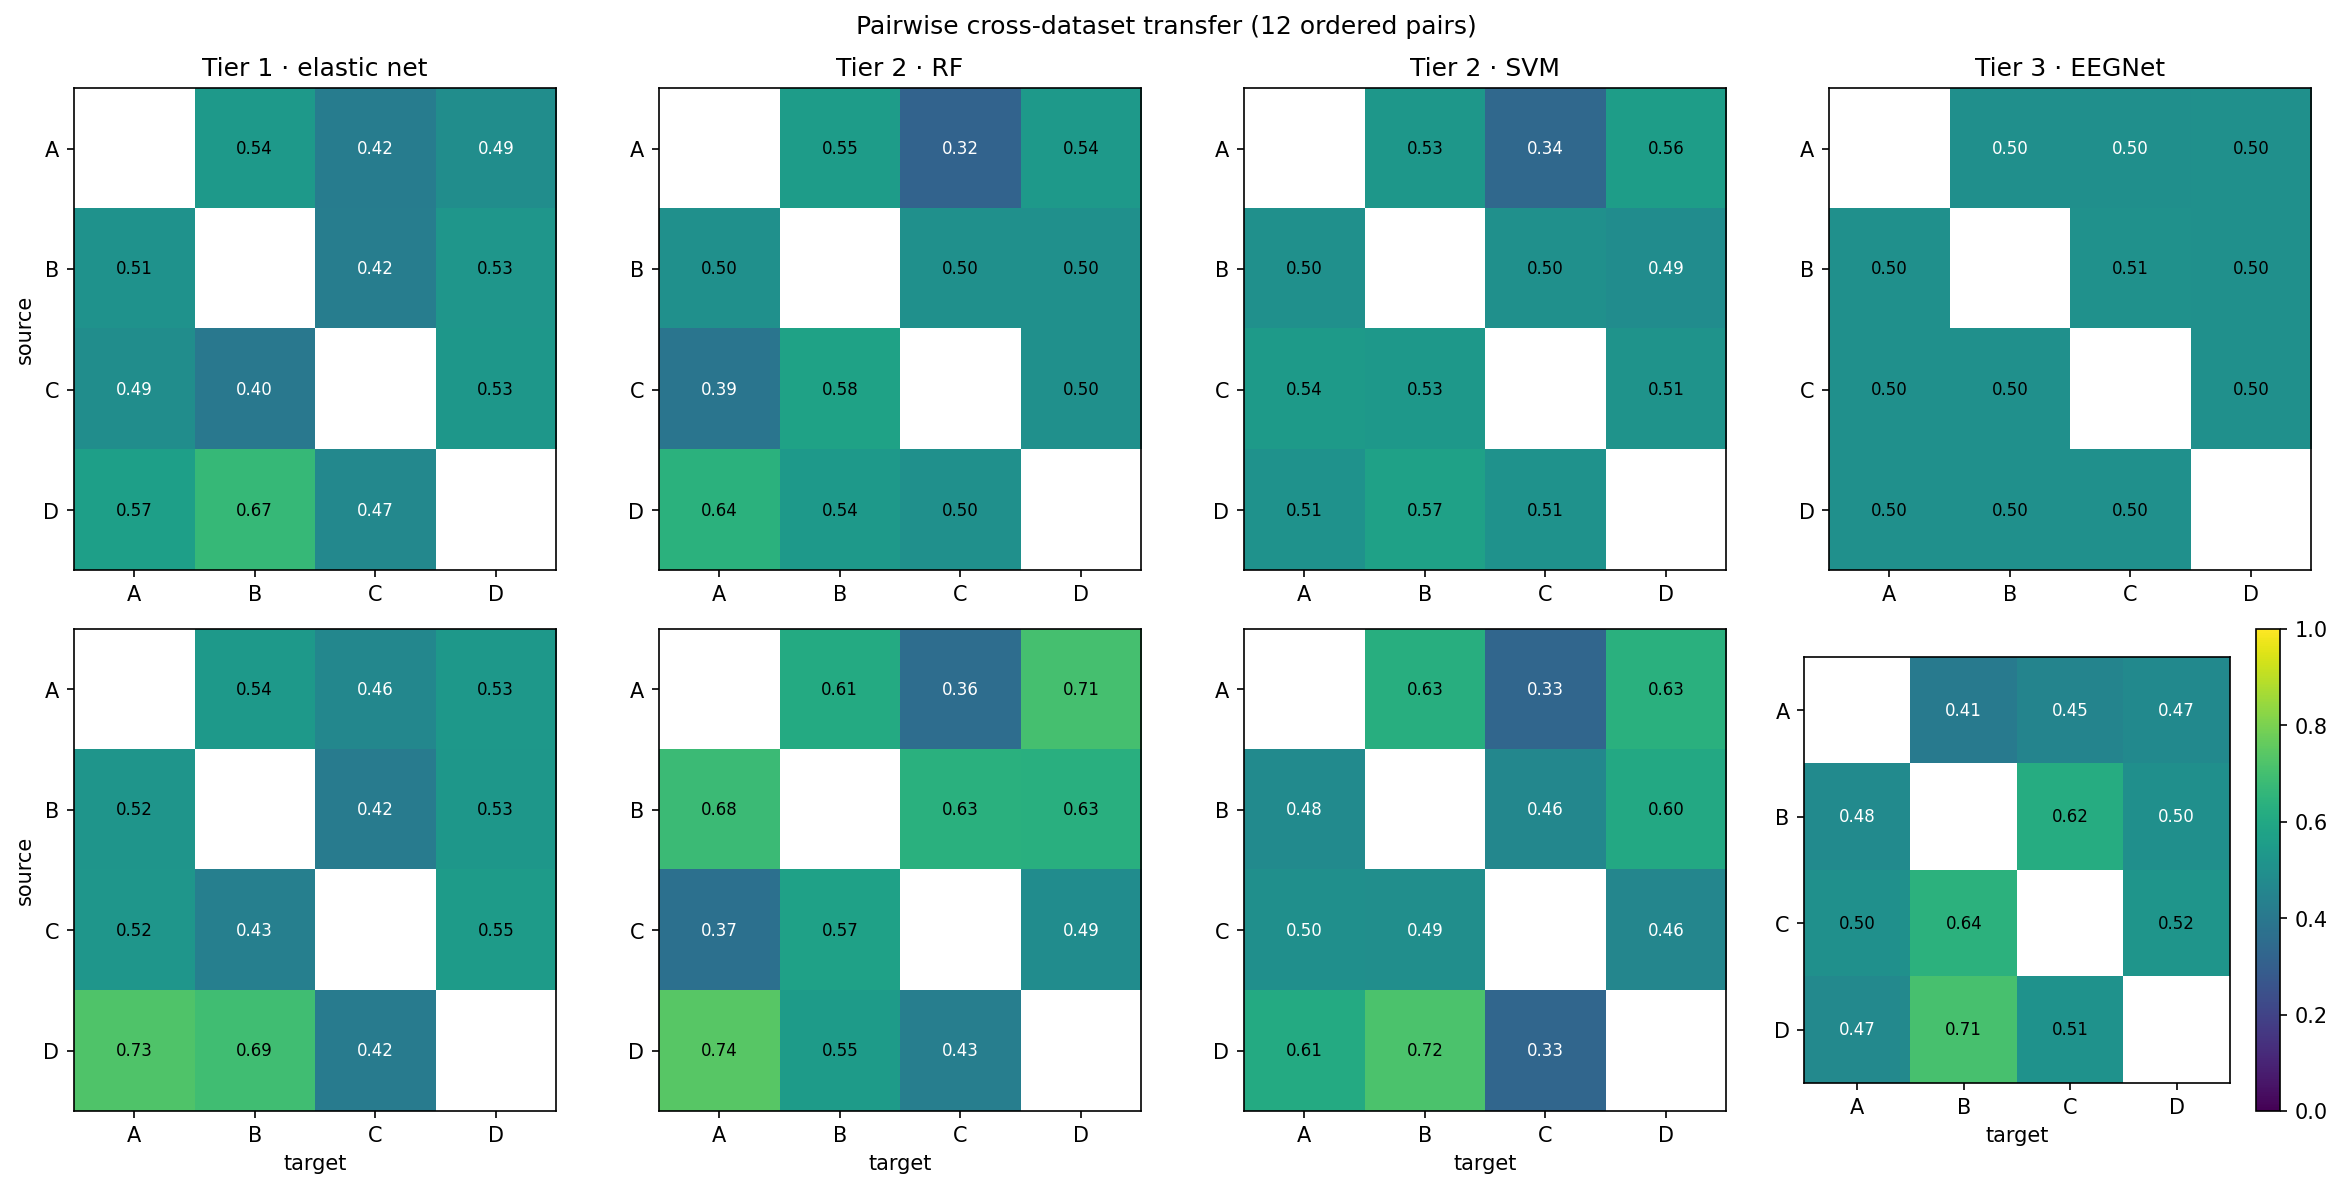
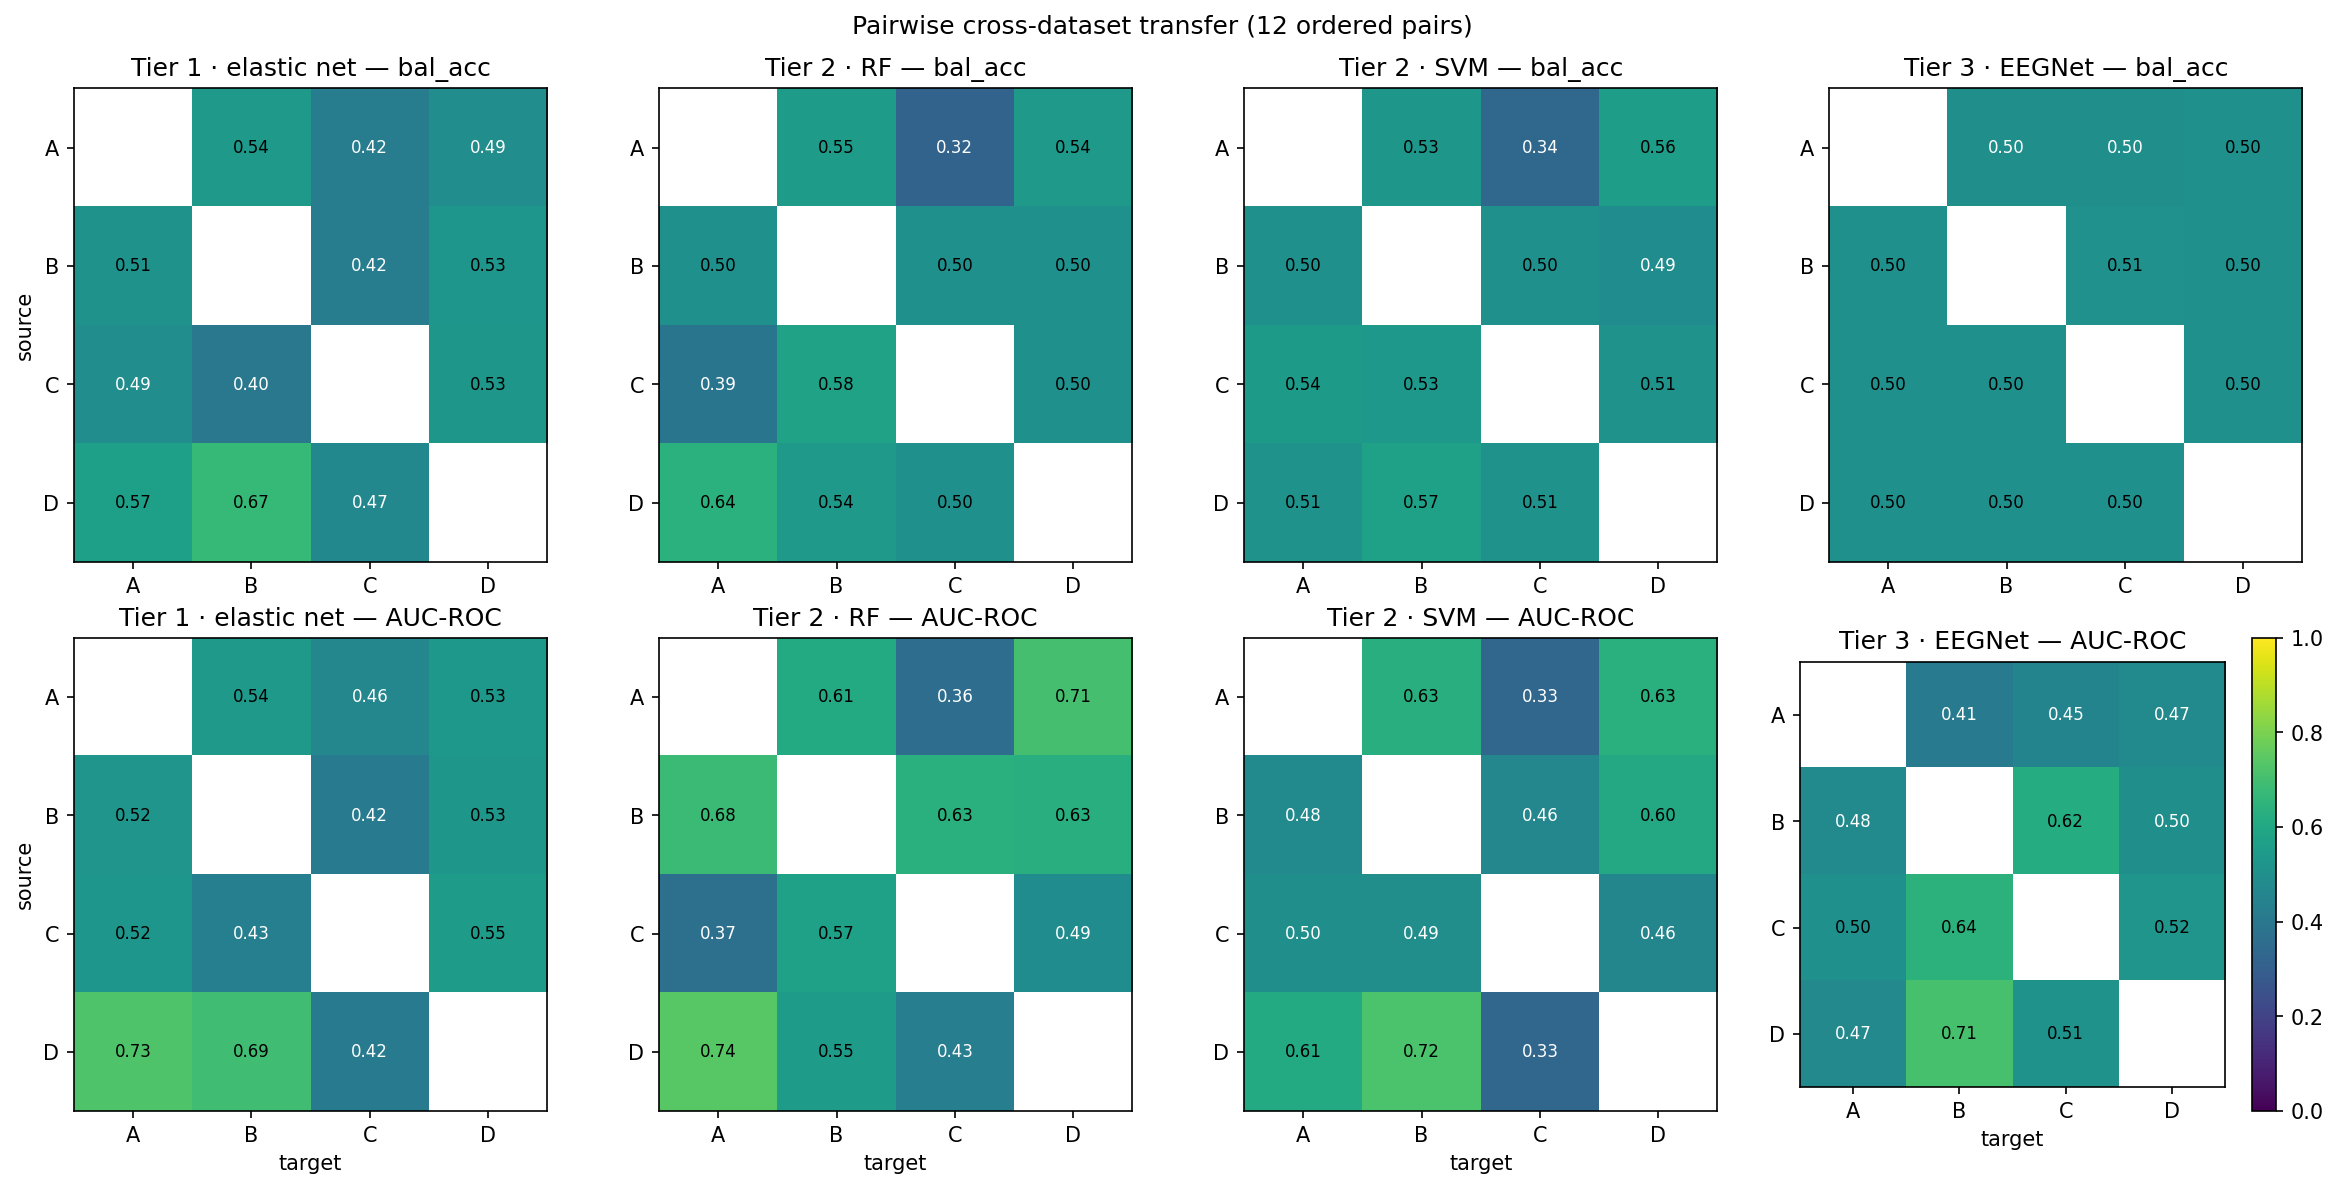
Pairwise transfer figure: label metric in subplot titles (follow-up to task 6)
Add 'bal_acc'/'AUC-ROC' to each transfer-matrix subplot title so the two rows are self-explanatory.

diff --git a/scripts/plot_pairwise_transfer.py b/scripts/plot_pairwise_transfer.py
@@ -69,9 +69,9 @@ def main():
             ax.set_xticklabels(dataset_labels)
             ax.set_yticklabels(dataset_labels)
             
-            # Set labels
-            if i == 0:
-                ax.set_title(model_labels[j])
+            # Set labels (title includes both model and metric so rows are self-explanatory)
+            metric_label = "bal_acc" if i == 0 else "AUC-ROC"
+            ax.set_title(f"{model_labels[j]} — {metric_label}")
             if j == 0:
                 ax.set_ylabel("source")
             if i == 1:
